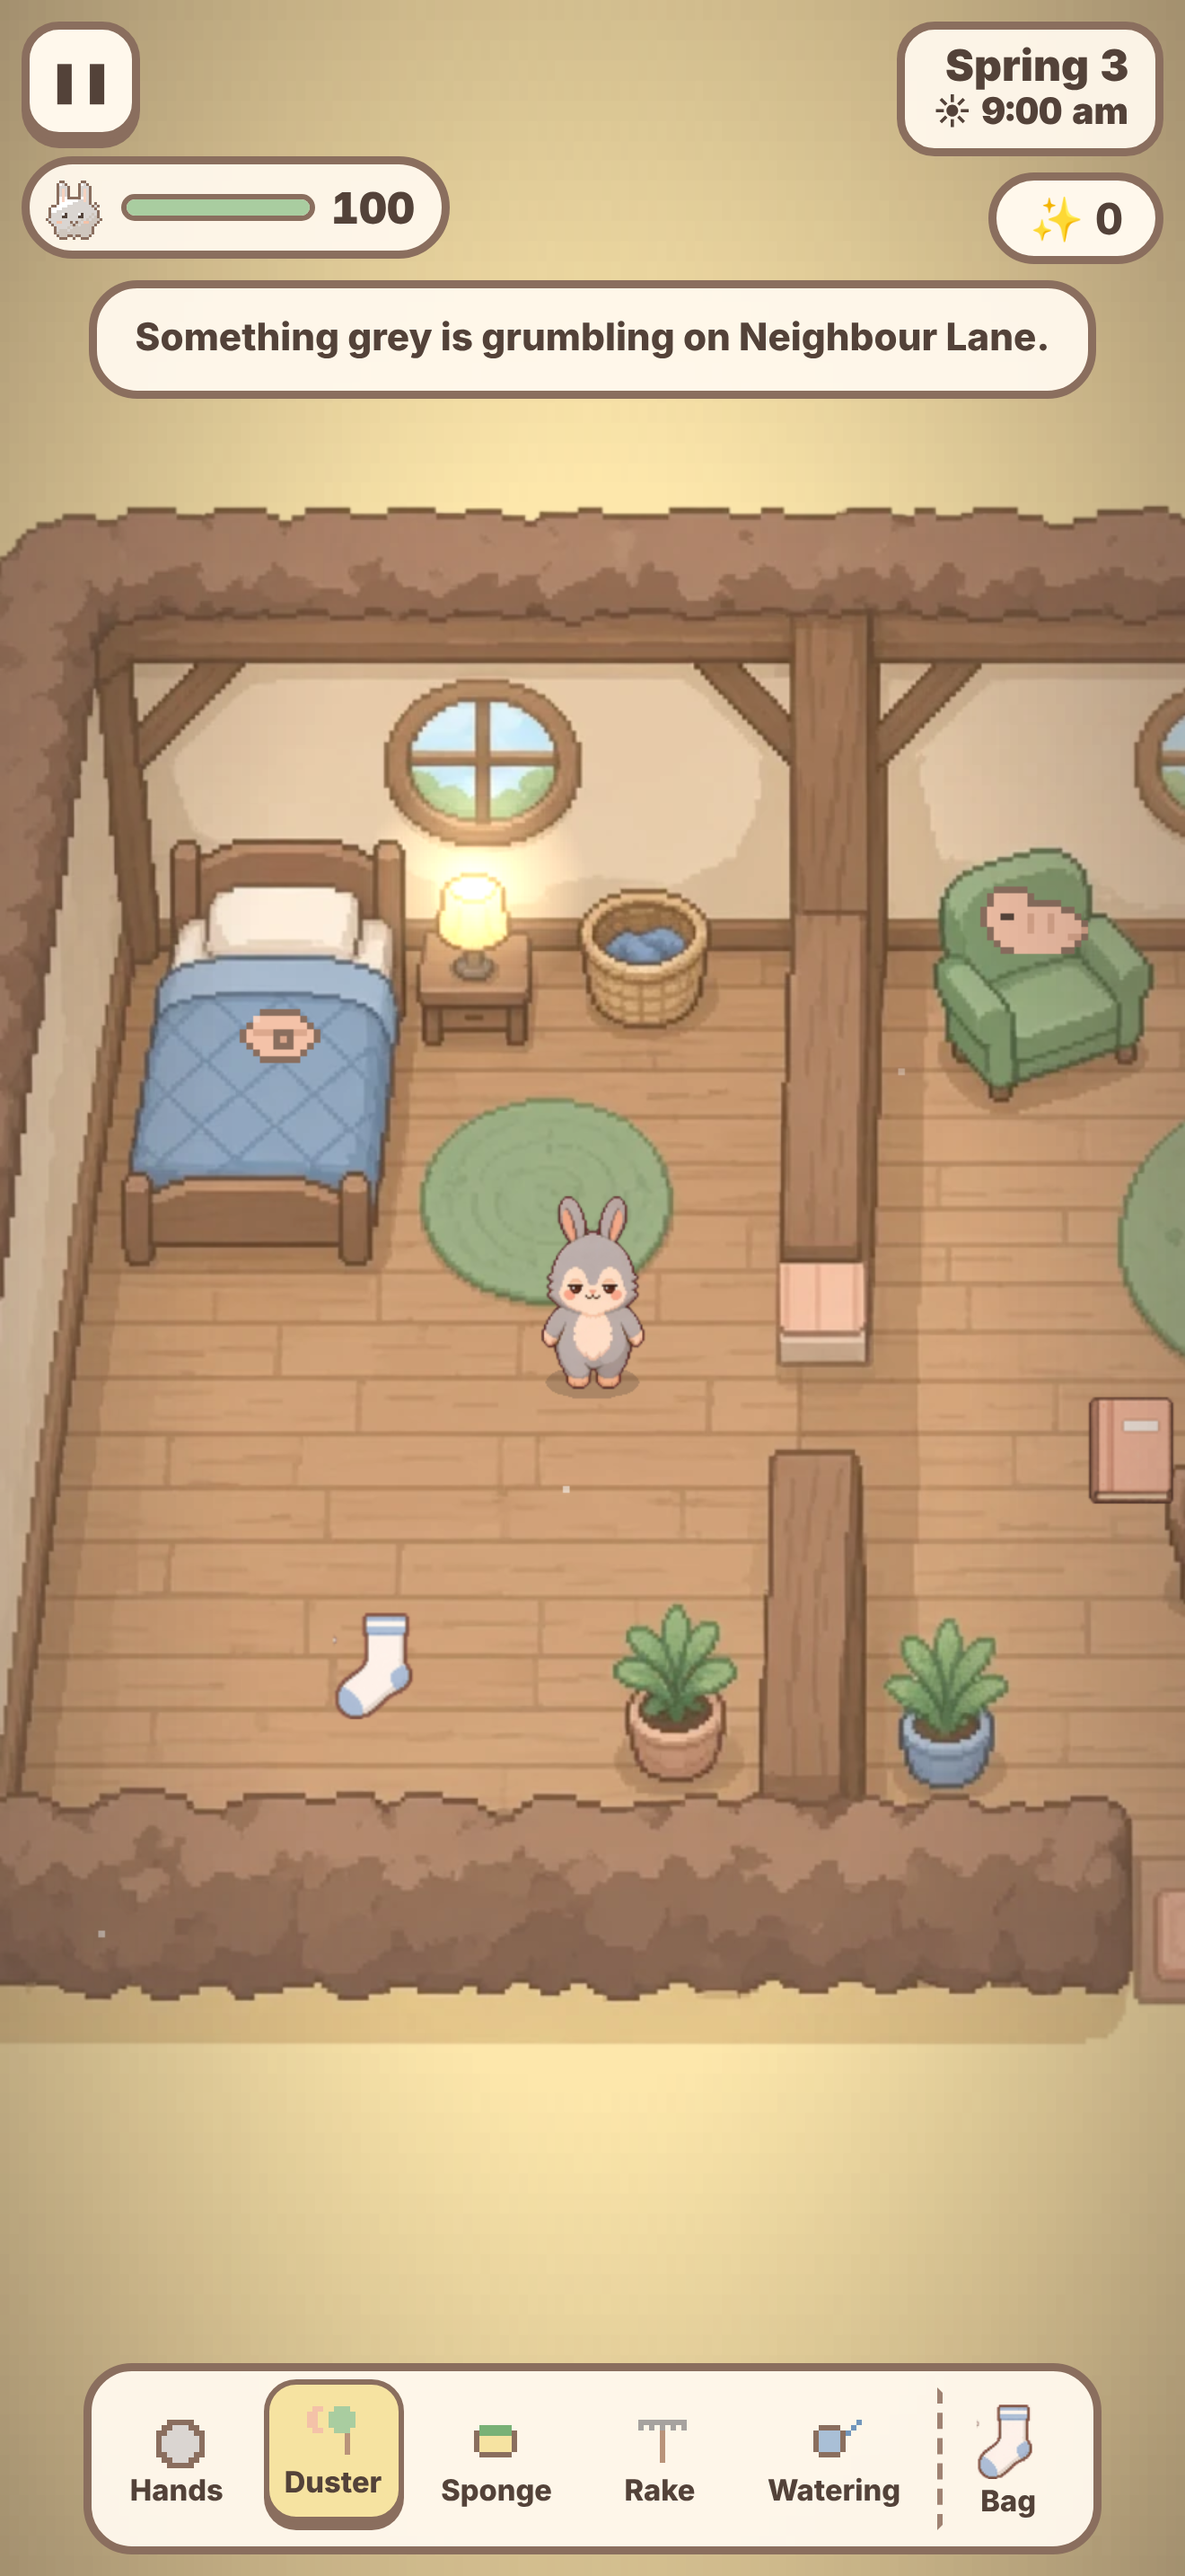
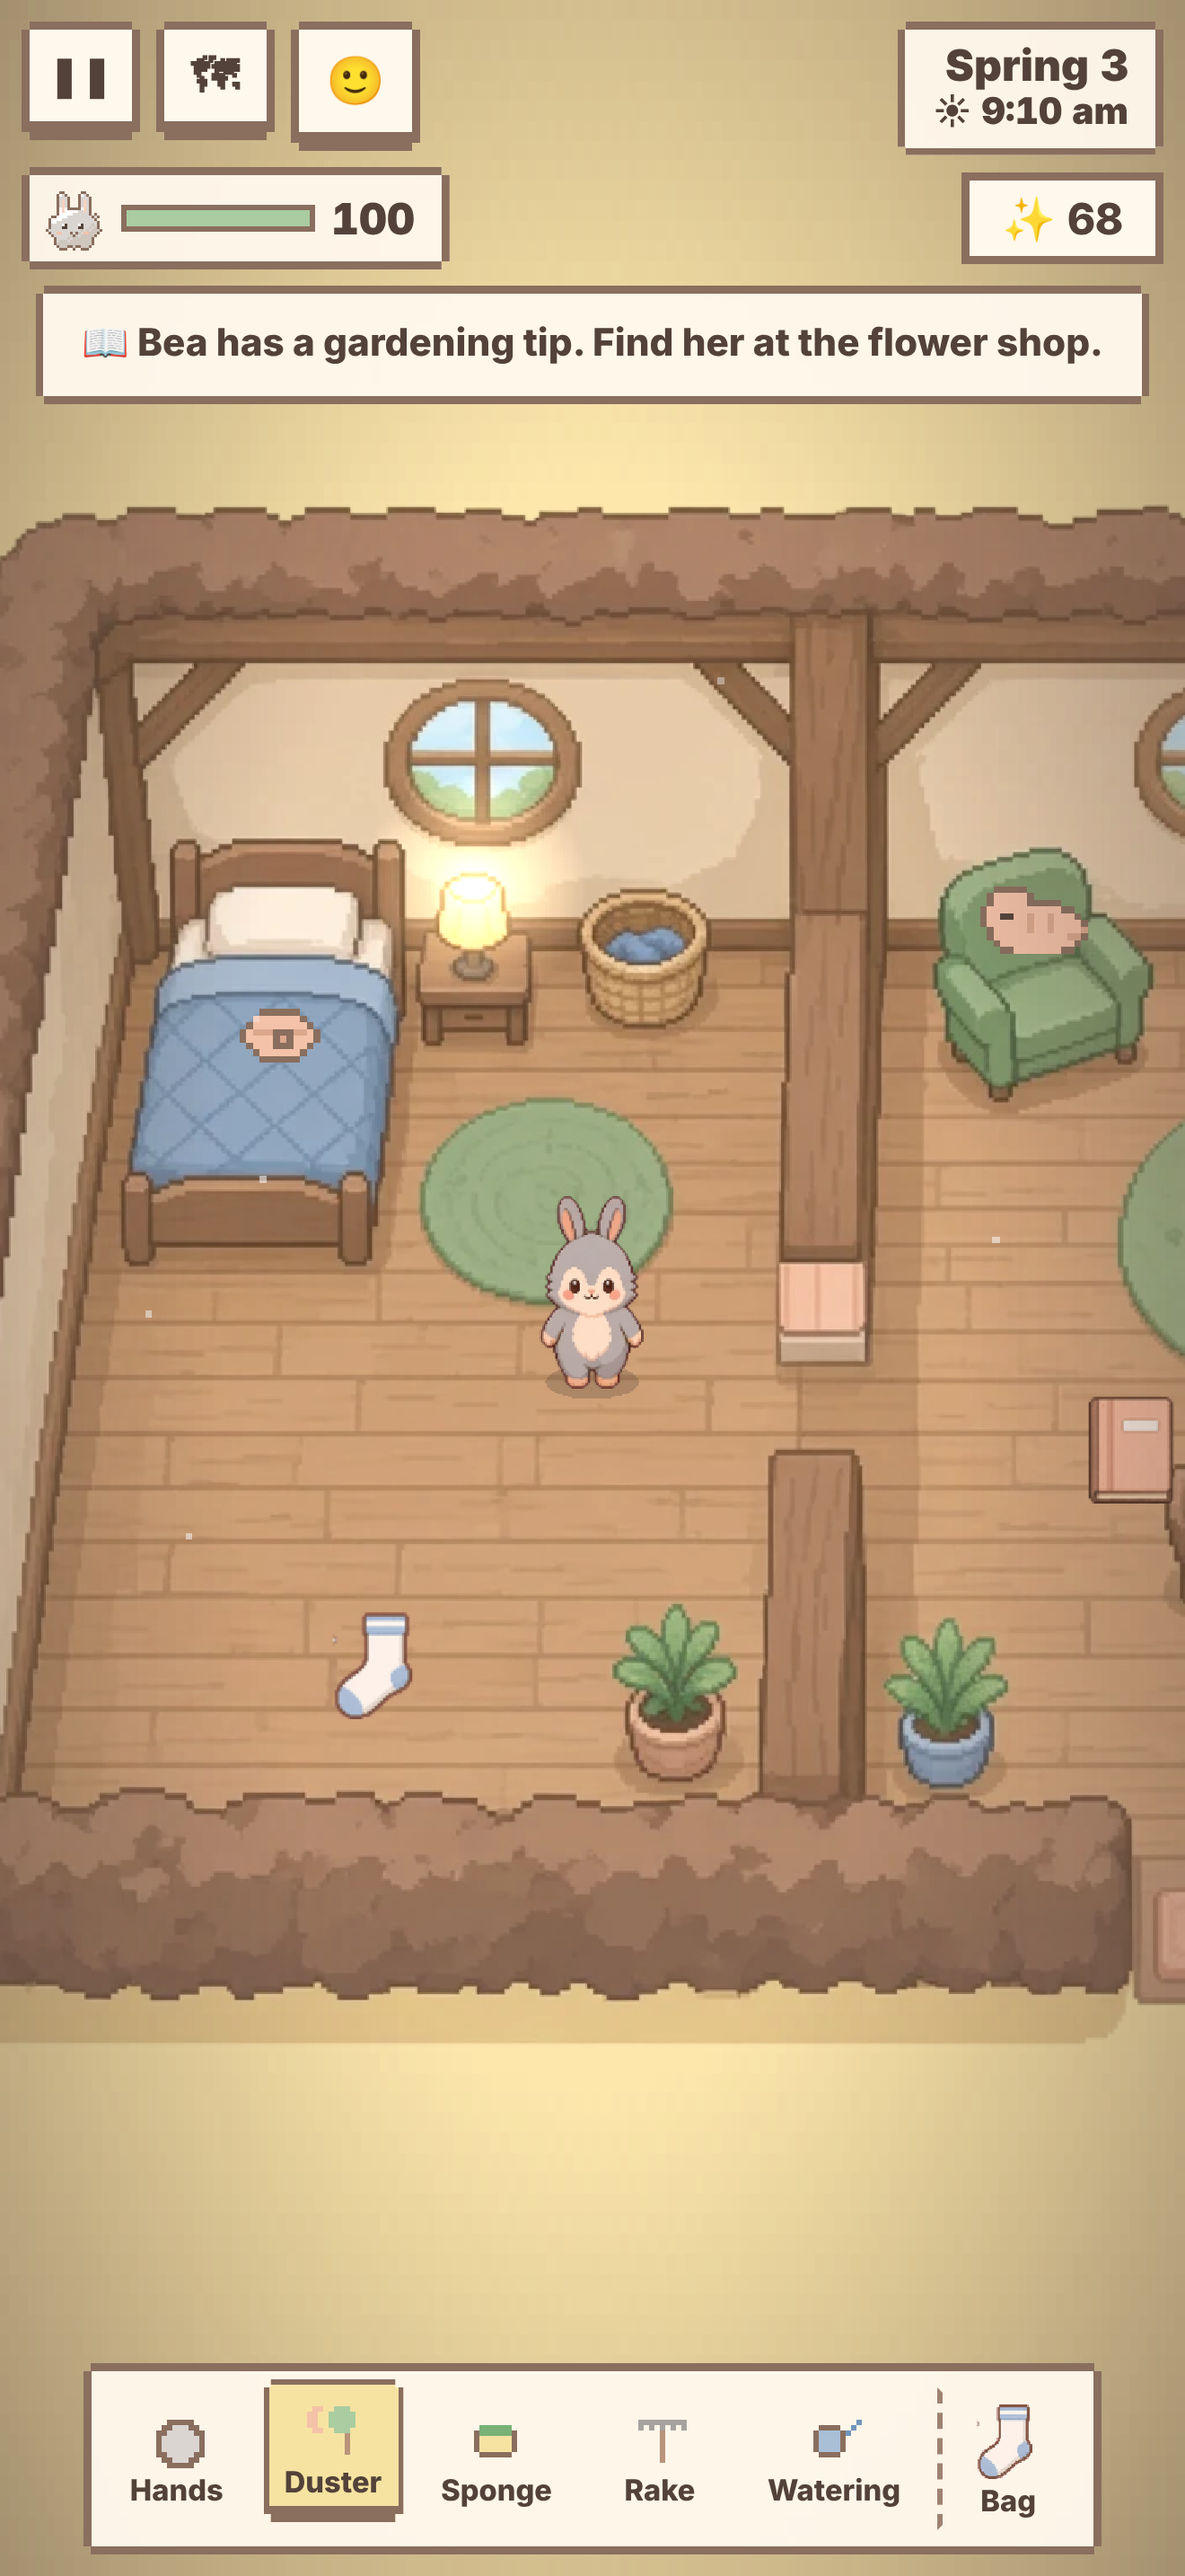
Polish pass 3: store listing, screenshots and summary match the game (#145)
* Silver tools: tier 3 from cave silver

The duster, sponge (the Silver squeegee, taught by Otto's 6-heart scene)
and rake get a Silver tier, made at Pip's workbench from cave silver and
only after Copper (recipes now go up one tier at a time). Silver takes
fewer swings and a charged swing tidies the whole 3x3 patch; the tool
button gets a silver rim and label.

Claude-Session: https://claude.ai/code/session_01NMgyhEgG4ciGX8i88XgnYZ

* Phase 5b: colour-blind friendly mess and tool tiers

Stain, mud and fog were all soft blobs told apart mostly by colour. A
stain is now a cup ring with a drip, mud a low puddle with splashes and
fog wavy smears, and a test checks no two kinds of mess share an outline.
Copper and Silver tools show one or two stars beside their rim colour.

Claude-Session: https://claude.ai/code/session_019ifuXDMTRBW6ewTYJKRXLP

* Phase 5b: screen-reader clock, Sparkles and morning jobs

The clock reads as words instead of sun and moon symbols, the Sparkles
chip gives its count, and each morning says how many new jobs went up.
The live region now queues the last few lines rather than replacing
them, so a busy morning is heard in full.

Claude-Session: https://claude.ai/code/session_019ifuXDMTRBW6ewTYJKRXLP

* Recheck fixes: Mabel's finale scene, ?debug offline, first-day tips

Mabel's 10-heart scene waited on a flag nothing set, so it never played.
Any query string now opens the cached page it names, not the room game.
[…]

diff --git a/apps/web/src/town/debug.ts b/apps/web/src/town/debug.ts
@@ -67,6 +67,8 @@ export function installDebugHooks(g: DebugTarget) {
     /** Skip the tips (hands over every tool), for tests of later play. */
     skipTips: () => g.guide.skip(),
     playScene: (id: string) => g.playScene(id),
+    /** The Keeper's Story at this step, not yet asked (store screenshots show the day's own 📖 line). */
+    setStory: (step: number) => { s.story = { step, asked: false, count: 0, day: 0 }; g.refreshHud(); },
     /** Mark this area restored (for testing what happens after), as if the last mess had gone. */
     restoreHere: () => { g.mess().restore(); },
     /** Every coming-alive stage of this area at once, for screenshots. */

diff --git a/claude/STORE-LISTING.md b/claude/STORE-LISTING.md
@@ -1,4 +1,4 @@
-# Store listing: Sweet Home Reset (draft, 30 Oct 2026)
+# Store listing: Sweet Home Reset (draft, updated 1 Nov 2026)
 For App Store Connect and Google Play Console. Never name other games here, in keywords or in screenshots (CLAUDE.md). Blake checks the price points and support details before submitting. Screenshots are in `art/store/` (`node tools/store-screenshots.cjs`).
 
 ## Both stores
@@ -12,8 +12,8 @@ For App Store Connect and Google Play Console. Never name other games here, in k
 
 ## App Store
 - **Subtitle (30):** Tidy a town back to colour
-- **Promotional text (170):** A grey little town is waiting for a dust bunny with a big heart. Tidy homes until they glow, grow a garden, make six friends and bring the fountain back to life.
-- **Keywords (100):** cosy,cozy,cleaning,tidy,town,life sim,farming,garden,relaxing,friends,bunny,festival,pixel
+- **Promotional text (170):** A grey little town is waiting for a dust bunny with a big heart. Tidy it back to colour, make friends, and wake the sleepy Keeper under the fountain.
+- **Keywords (100):** cosy,cozy,cleaning,tidy,town,life sim,farming,fishing,garden,relaxing,friends,bunny,story,pixel
 - **In-app purchase:** "Full game" (product id `full_game`, non-consumable). Its description: "Unlock summer, autumn, winter and every future chapter. Yours to keep."
 
 ## Google Play
@@ -21,16 +21,19 @@ For App Store Connect and Google Play Console. Never name other games here, in k
 - **In-app product:** `full_game` (one-time), the same description as above.
 
 ## Full description (both)
-Puff, a little dust bunny born from the fountain's last sparkle, becomes the Keeper of a grey, quiet town. Every tidy brings the colour back.
+Puff, a little dust bunny born from the fountain's last sparkle, becomes the Keeper of a grey, quiet town. Every tidy brings the colour back, and somewhere under the fountain, the old Keeper is fast asleep.
 
-• Tidy with taps, rubs, sweeps and swipes, and watch rooms switch on and streets bloom.
-• Make friends with six neighbours (and newcomers), each with their own story to share.
-• Grow seasonal crops, cook, craft better tools and build up the town.
-• Repair the way to new places: the far bank, the woodland edge and the beach.
+• Tidy with taps, rubs, sweeps and swipes, and watch homes switch on and streets bloom.
+• Follow a gentle story through the year: a step a day from a friend, a Keeper's journal, and a hint at tomorrow each night.
+• Make friends with a whole town: the six old neighbours, five newcomers who move in as you build their homes, and one very sleepy Keeper.
+• Grow crops by the season, fish, cook, craft, keep hens and build up the town.
+• Mend the way to new places: the far bank, the woods and the orchard, the beach and an old harbour, and the caves below.
+• Find secret places, old carvings and the clues that lead to the Keeper before you.
 • Befriend the grumpy little Grumbles until they brighten into helpers.
-• Four seasons, four festivals and a gentle mystery under the fountain.
-• Gentle by design: nothing is ever lost or failed, no streaks, no timers you have to beat.
+• Four seasons, four festivals and little story scenes played out in the town itself.
+• Gentle by design: no streaks, no timers to beat, nothing to fall behind on. Skip a day and the story simply waits.
 • Accessibility options: tap-only play, three text sizes, high contrast, reduced motion, shapes that never rely on colour alone, and screen-reader support.
+• Plays beautifully on phones, tablets and computers, folded or unfolded.
 • No ads. No tracking. Plays offline. An account is optional.
 
 The first spring is free. One purchase unlocks the full year and every chapter to come.

diff --git a/CLAUDE.md b/CLAUDE.md
@@ -1,7 +1,7 @@
 # CLAUDE.md: Sweet Home Reset (PixelVortex Games)
 
 ## Project
-A cosy top-down town life sim: Puff the dust bunny ("they") tidies homes in the town of Hollowfern, befriends 6 neighbours and restores the Glimmerwell fountain, with an optional tiny real chore each day. v1 ships on **web/PWA, iOS App Store and Google Play together, with no phases**. Bundle ID `com.pixelvortexgames.sweethomereset` (web Services ID `com.pixelvortexgames.sweethomereset.web`). Repo: github.com/Blake-caligari123/Sweet-Home-reset.
+A cosy top-down town life sim: Puff the dust bunny ("they") tidies homes in the town of Hollowfern, befriends the townsfolk (the six old neighbours, five newcomers and, in year two, Thimble the old Keeper), follows a year-long story to wake Thimble and restores the Glimmerwell fountain, with an optional tiny real chore each day. v1 ships on **web/PWA, iOS App Store and Google Play together, with no phases**. Bundle ID `com.pixelvortexgames.sweethomereset` (web Services ID `com.pixelvortexgames.sweethomereset.web`). Repo: github.com/Blake-caligari123/Sweet-Home-reset.
 
 ## Stack
 - Client: TypeScript + Vite + PixiJS v8, DOM overlay UI, Capacitor for iOS/Android, vite-plugin-pwa.
